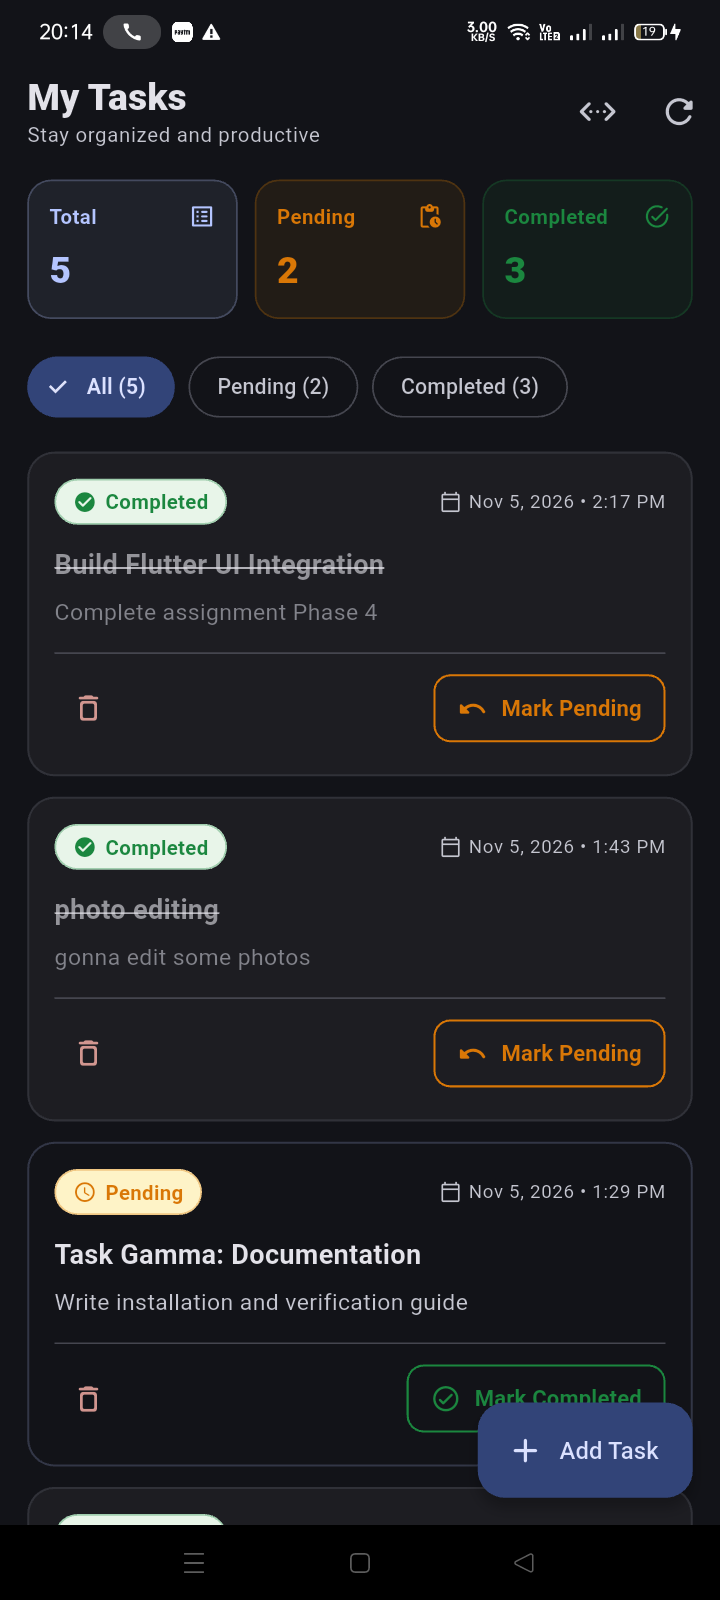
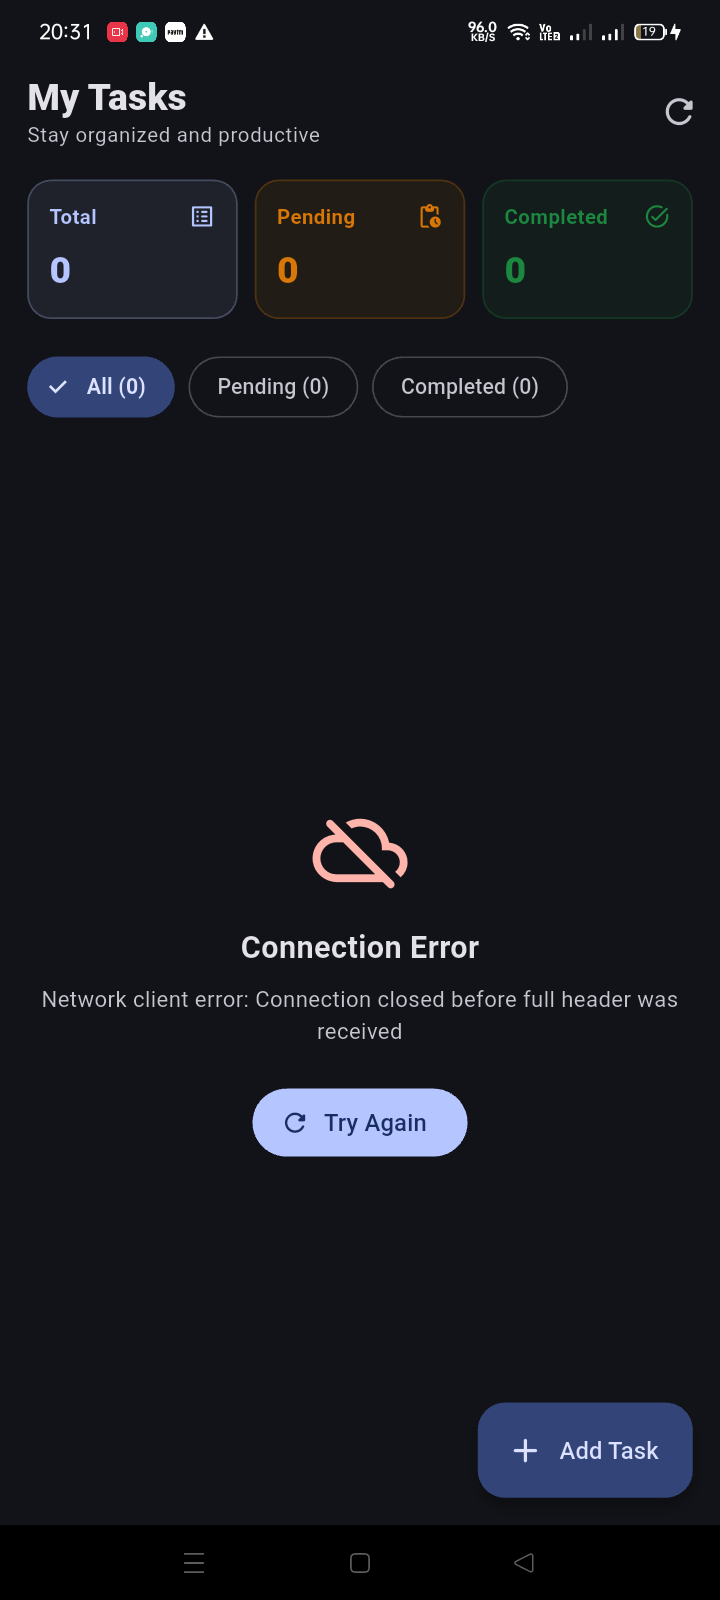
refactor(mobile): simplify AppBar actions by removing connection settings button for clean demo UI

diff --git a/mobile/lib/screens/home_screen.dart b/mobile/lib/screens/home_screen.dart
@@ -1,5 +1,4 @@
 import 'package:flutter/material.dart';
-import '../config/api_config.dart';
 import '../models/task.dart';
 import '../services/api_service.dart';
 import '../widgets/task_card.dart';
@@ -148,91 +147,6 @@ class _HomeScreenState extends State<HomeScreen> {
     }
   }
 
-  void _showServerSettingsDialog() {
-    final controller = TextEditingController(text: ApiConfig.baseUrl);
-
-    showDialog(
-      context: context,
-      builder: (ctx) => StatefulBuilder(
-        builder: (context, setDialogState) {
-          return AlertDialog(
-            title: const Text('API Server Configuration'),
-            content: SingleChildScrollView(
-              child: Column(
-                mainAxisSize: MainAxisSize.min,
-                crossAxisAlignment: CrossAxisAlignment.start,
-                children: [
-                  const Text(
-                    'Select a target environment or enter custom base URL:',
-                    style: TextStyle(fontSize: 12.5),
-                  ),
-                  const SizedBox(height: 12),
-                  TextField(
-                    controller: controller,
-                    decoration: const InputDecoration(
-                      labelText: 'Server Base URL',
-                      border: OutlineInputBorder(),
-                    ),
-                  ),
-                  const SizedBox(height: 14),
-                  const Text(
-                    'Quick Presets:',
-                    style: TextStyle(fontSize: 12, fontWeight: FontWeight.bold),
-                  ),
-                  const SizedBox(height: 6),
-                  Wrap(
-                    spacing: 6,
-                    runSpacing: 6,
-                    children: [
-                      ActionChip(
-                        label: const Text('Wi-Fi LAN IP'),
-                        onPressed: () {
-                          setDialogState(() {
-                            controller.text = ApiConfig.physicalDeviceLanUrl;
-                          });
-                        },
-                      ),
-                      ActionChip(
-                        label: const Text('USB (127.0.0.1)'),
-                        onPressed: () {
-                          setDialogState(() {
-                            controller.text = ApiConfig.localhostUrl;
-                          });
-                        },
-                      ),
-                      ActionChip(
-                        label: const Text('Emulator (10.0.2.2)'),
-                        onPressed: () {
-                          setDialogState(() {
-                            controller.text = ApiConfig.androidEmulatorUrl;
-                          });
-                        },
-                      ),
-                    ],
-                  ),
-                ],
-              ),
-            ),
-            actions: [
-              TextButton(
-                onPressed: () => Navigator.pop(ctx),
-                child: const Text('Cancel'),
-              ),
-              FilledButton(
-                onPressed: () {
-                  ApiConfig.baseUrl = controller.text.trim();
-                  Navigator.pop(ctx);
-                  _fetchTasks();
-                },
-                child: const Text('Save & Reconnect'),
-              ),
-            ],
-          );
-        },
-      ),
-    );
-  }
-
   @override
   Widget build(BuildContext context) {
     final theme = Theme.of(context);
@@ -268,11 +182,6 @@ class _HomeScreenState extends State<HomeScreen> {
           ],
         ),
         actions: [
-          IconButton(
-            icon: const Icon(Icons.settings_ethernet_rounded),
-            tooltip: 'Server Connection Settings',
-            onPressed: _showServerSettingsDialog,
-          ),
           IconButton(
             icon: const Icon(Icons.refresh_rounded),
             tooltip: 'Refresh Task List',
@@ -401,21 +310,10 @@ class _HomeScreenState extends State<HomeScreen> {
                             ),
                           ),
                           const SizedBox(height: 20),
-                          Row(
-                            mainAxisAlignment: MainAxisAlignment.center,
-                            children: [
-                              OutlinedButton.icon(
-                                onPressed: _showServerSettingsDialog,
-                                icon: const Icon(Icons.settings_outlined),
-                                label: const Text('Configure IP'),
-                              ),
-                              const SizedBox(width: 12),
-                              FilledButton.icon(
-                                onPressed: _fetchTasks,
-                                icon: const Icon(Icons.refresh_rounded),
-                                label: const Text('Try Again'),
-                              ),
-                            ],
+                          FilledButton.icon(
+                            onPressed: _fetchTasks,
+                            icon: const Icon(Icons.refresh_rounded),
+                            label: const Text('Try Again'),
                           ),
                         ],
                       ),
